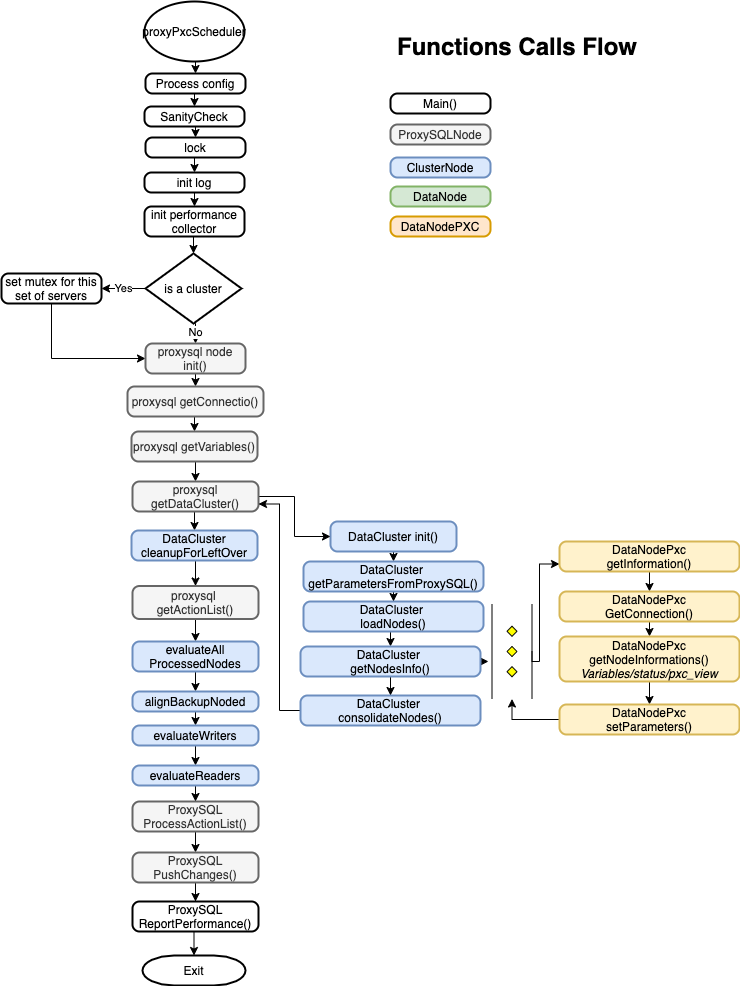
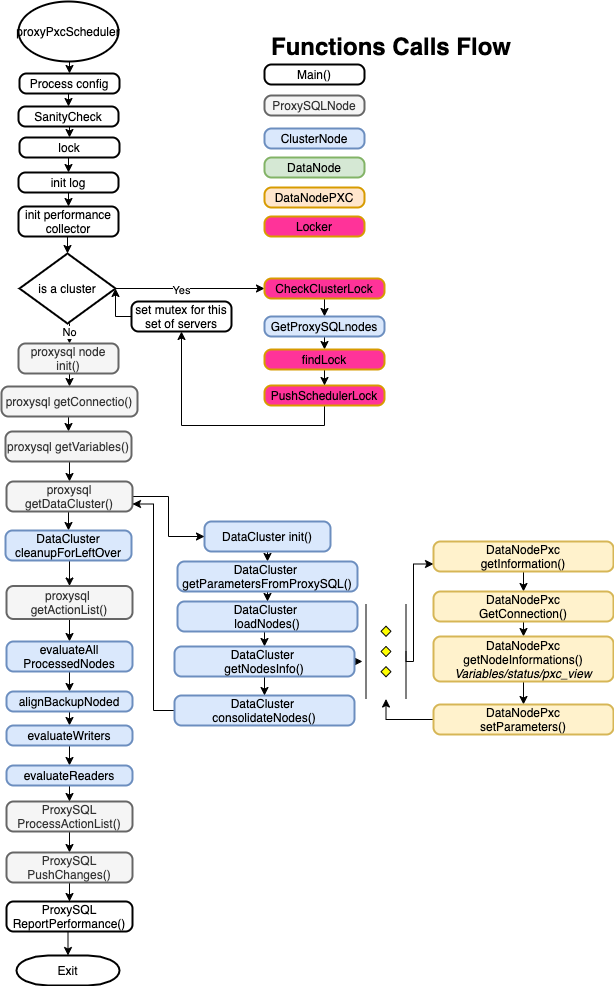
Add support for ProxySQL cluster  we will check if the node were we are has a lock or if can acquire one.  If not we will return nil to indicate program must exit given either there is already another node holding the lock  or this node is not in a good state to acquire a lock  Outside call To get a
Find lock method review all the nodes existing in the Proxysql for an active LOck
it checks only nodes that are reachable.
Checks for:
	- existing log locally
	- lock on another node
	- lock time comparing it with lockclustertimeout parameter

Interestingly ProxySQL has not clue if a ProxySQL nodes ur down. Or at least is not reported in the proxysql_server tables or any stats table
Given that we check if nodes are reachable opening a connection and closing it

diff --git a/lib/DataObjects/Locker.go b/lib/DataObjects/Locker.go
@@ -2,10 +2,11 @@ package DataObjects
 
 import (
 	"bufio"
+	"context"
 	"fmt"
 	"regexp"
 	"strings"
-
+	SQL "../Sql/Proxy"
 	Global "../Global"
 	//"github.com/go-sql-driver/mysql"
 	log "github.com/sirupsen/logrus"
@@ -15,6 +16,9 @@ import (
 )
 
 type (
+	//Locker is the Object handling the Lock at cluster level and the local process for the node demanded to run the scheduler
+	//Locker initialize also the ProxySQL node that will execute the actions
+
 	Locker struct {
 		MyServerIp          string
 		MyServerPort        int
@@ -71,14 +75,19 @@ func (locker *Locker) CheckFileLock() *ProxySQLNode{
 // we will check if the node were we are has a lock or if can acquire one.
 // If not we will return nil to indicate program must exit given either there is already another node holding the lock
 // or this node is not in a good state to acquire a lock
+// Outside call To get and check the active list of ProxySQL server we call ProxySQLCLuster.GetProxySQLnodes
+// All the DB operations are done connecting locally to the ProxySQL node running the scheduler
+
 func (locker *Locker) CheckClusterLock( ) *ProxySQLNode{
 	//TODO
 	// 1 get connection
 	// 2 get all we need from ProxySQL
 	// 3 put the lock if we can
+	Global.SetPerformanceObj("Cluster lock", true, log.InfoLevel)
 	proxySQLCluster := new(ProxySQLCluster)
 	if !locker.MyServer.IsInitialized {
 		if !locker.MyServer.Init(locker.myConfig){
+			Global.SetPerformanceObj("Cluster lock", false, log.InfoLevel)
 			return nil
 		}
 	}
@@ -91,33 +100,43 @@ func (locker *Locker) CheckClusterLock( ) *ProxySQLNode{
 		if proxySQLCluster.GetProxySQLnodes(locker.MyServer) && len(proxySQLCluster.Nodes) > 0{
 			if nodes, ok := locker.findLock(proxySQLCluster.Nodes); ok && nodes != nil {
 				if locker.PushSchedulerLock(nodes){
+					Global.SetPerformanceObj("Cluster lock", false, log.InfoLevel)
 					return locker.MyServer
 				}else{
+					Global.SetPerformanceObj("Cluster lock", false, log.InfoLevel)
 					return nil
 				}
 			}else{
 				log.Info(fmt.Sprintf("Cannot put a lock on the cluster for this scheduler %s another node hold the lock and acting",locker.MyServer.Dns))
+				Global.SetPerformanceObj("Cluster lock", false, log.InfoLevel)
 				return nil
 			}
 		}
 	}
 
-	log.Info("")
+	Global.SetPerformanceObj("Cluster lock", false, log.InfoLevel)
 	return locker.MyServer
 }
-
+/*
+Find lock method review all the nodes existing in the Proxysql for an active LOck
+it checks only nodes that are reachable.
+Checks for:
+	- existing log locally
+	- lock on another node
+	- lock time comparing it with lockclustertimeout parameter
+ */
 func (locker *Locker) findLock(nodes map[string]ProxySQLNode)  (map[string]ProxySQLNode,bool){
 	lockText := ""
-	//isMyNodeLocking :=false
-	//isLockTimeoutExceeded := false
 	winningNode :=  ""
 	lockHeader := "#LOCK_" + locker.ClusterLockId +"_"
-	log.Debug("Using lock ID: ", lockHeader)
+	lockTail := "_LOCK#"
 	lockHeaderLen := len(lockHeader)
+	log.Debug("Using lock ID: ", lockHeader)
+	//Capture the current time
 	locker.ClusterCurrentLockTime = time.Now().UnixNano()
 	log.Debug("Locker time: ", locker.ClusterCurrentLockTime)
 
-	//let us process the nodes to identify if we have a lock, where and if is expired
+	//let us process the nodes to identify if we have a lock, where, and if is expired
 	for _, node := range nodes {
 		lockText = node.Comment
 
@@ -127,15 +146,16 @@ func (locker *Locker) findLock(nodes map[string]ProxySQLNode)  (map[string]Proxy
 			node.HoldLock = true
 
 			startIdx := strings.Index(node.Comment, lockHeader)
-			endIdx := strings.Index(node.Comment, "_LOCK#")
-			lockText := strings.ReplaceAll(node.Comment[startIdx + lockHeaderLen : endIdx], "#LOCK_", "")
+			endIdx := strings.Index(node.Comment, lockTail)
+			lockText := node.Comment[startIdx + lockHeaderLen : endIdx]
 
 			log.Debug(fmt.Sprintf("Cluster Node %s has a scheduler lock ", node.Dns))
 
 			//get LOCK time and assign as winning node the node that has be the more recent one
 			node.LastLockTime = int64(Global.ToInt(lockText))
 
-			//Also if the time is not expired I will remove the lock text from comment for my node, given if the lock on another node is active I will not do a thing. But if is not I will have the node ready
+			//Also if the time is not expired I will remove the lock text from comment for my node, given if the lock on another node is active I will not do a thing.
+			//But if is not I will have the comment in the node ready
 			//trim some double spaces to be sure we have a clean string
 			node.Comment = node.Comment[:startIdx] + node.Comment[endIdx+6:]
 			space := regexp.MustCompile(`\s+`)
@@ -149,6 +169,7 @@ func (locker *Locker) findLock(nodes map[string]ProxySQLNode)  (map[string]Proxy
 				node.IsLockExpired = true
 			}
 
+			// in case of multiple locks, the node with the most recent lock time wins
 			if node.LastLockTime < locker.ClusterLastLockTime && !node.IsLockExpired {
 				locker.ClusterLastLockTime = node.LastLockTime
 				winningNode = node.Dns
@@ -156,22 +177,75 @@ func (locker *Locker) findLock(nodes map[string]ProxySQLNode)  (map[string]Proxy
 				locker.ClusterLastLockTime = node.LastLockTime
 				winningNode = node.Dns
 			}
-
-
-			// if my node is the winner I will ad it back at the end of the comment
-			//nodes[node.Dns] = node
 		}
 		nodes[node.Dns] = node
 	}
+
+	// My ProxySQL node is the winner and I can push a lock on it
+	// Else I exit without doing a bit
 	if winningNode == "" || winningNode == locker.MyServer.Dns{
+		node :=  nodes[locker.MyServer.Dns]
+		if node.Dns != "" {
+			node.Comment = node.Comment + " " + lockHeader + strconv.FormatInt(locker.ClusterCurrentLockTime, 10) + lockTail
+			nodes[locker.MyServer.Dns] = node
+			log.Debug(fmt.Sprint("Lock acquired by node %s Current time %d", locker.MyServer.Dns, locker.ClusterCurrentLockTime))
+		}
+
 		return  nodes, true
 	}
 	return nil,false
 
 }
-
+// We are ready to submit our changes. As always all is executed in a transaction
+// TODO SHOULD we remove the proxysql node that doesn't work ????
 func (locker *Locker) PushSchedulerLock(nodes map[string]ProxySQLNode) bool {
+	if len(nodes) <= 0 {
+		return true
+	}
 
+	if Global.Performance {
+		Global.SetPerformanceObj("Execute SQL changes - ProxySQL cluster LOCK ("+ locker.ClusterLockId +")" , true,log.DebugLevel)
+	}
+	//We will execute all the commands inside a transaction if any error we will roll back all
+	ctx := context.Background()
+	tx, err := locker.MyServer.Connection.BeginTx(ctx, nil)
+	if err != nil {
+		log.Fatal("Error in creating transaction to push changes ", err)
+	}
+	for key, node := range nodes {
+		if node.Dns != "" {
+			sqlAction := strings.ReplaceAll(SQL.Dml_update_comment_proxy_servers,"?", node.Comment) + " where hostname='" + node.Ip + "' and port= " + strconv.Itoa(node.Port)
+			_, err = tx.ExecContext(ctx, sqlAction)
+			if err != nil {
+				tx.Rollback()
+				log.Fatal("Error executing SQL: ", sqlAction, " for node: ", key, " Rollback and exit")
+				log.Error(err)
+				return false
+			}
+		}
+	}
+	err = tx.Commit()
+	if err != nil {
+		log.Fatal("Error IN COMMIT exit")
+		return false
+
+	} else {
+		_, err = locker.MyServer.Connection.Exec("LOAD proxysql servers to RUN ")
+		if err != nil {
+			log.Fatal("Cannot load new proxysql configuration to RUN ")
+			return false
+		} else {
+			_, err = locker.MyServer.Connection.Exec("save proxysql servers to disk ")
+			if err != nil {
+				log.Fatal("Cannot save new proxysql configuration to DISK ")
+				return false
+			}
+		}
+
+	}
+	if Global.Performance {
+		Global.SetPerformanceObj("Execute SQL changes - ProxySQL cluster LOCK ("+ locker.ClusterLockId +")" , false,log.DebugLevel)
+	}
 
 	return true
 }

diff --git a/lib/DataObjects/proxySQLObjects.go b/lib/DataObjects/proxySQLObjects.go
@@ -24,6 +24,9 @@ type ProxySQLCluster struct {
 	Password string
 }
 
+// This method in ProxySQL Cluster Object is responsible for getting the list of ACTIVE ProxySQL servers.
+// Interestingly ProxySQL has not clue if a ProxySQL nodes ur down. Or at least is not reported in the proxysql_server tables or any stats table
+// Given that we check if nodes are reachable opening a connection and closing it
 func (cluster ProxySQLCluster) GetProxySQLnodes(myNode *ProxySQLNode) bool {
 	//nodes := make(map[int]*ProxySQLNode)
 
@@ -48,8 +51,11 @@ func (cluster ProxySQLCluster) GetProxySQLnodes(myNode *ProxySQLNode) bool {
 		newNode.User = cluster.User
 		newNode.Password = cluster.Password
 
-		//TODO given Proxysql is NOT removing a non healthy node from proxySQL_cluster I must add a step here to check and eventually remove failing ProxySQL nodes
+		// Given Proxysql is NOT removing a non healthy node from proxySQL_cluster I must add a step here to check and eventually remove failing ProxySQL nodes
 		if newNode.GetConnection(){
+			if newNode.Dns != myNode.Dns{
+				newNode.CloseConnection()
+			}
 			cluster.Nodes[newNode.Dns] = *newNode
 		}else{
 			log.Error(fmt.Sprintf("ProxySQL Node %s is down or not reachable PLEASE REMOVE IT from the proxysql_servers table OR fix the issue", newNode.Dns))
@@ -509,7 +515,7 @@ func (node *ProxySQLNode) executeSQLChanges(SQLActionString []string) bool {
 			log.Fatal("Cannot load new mysql configuration to RUN ")
 			return false
 		} else {
-			_, err = node.Connection.Exec("LOAD mysql servers to RUN ")
+			_, err = node.Connection.Exec("SAVE mysql servers to DISK ")
 			if err != nil {
 				log.Fatal("Cannot save new mysql configuration to DISK ")
 				return false

diff --git a/pxcScheduler.go b/pxcScheduler.go
@@ -95,24 +95,13 @@ func main() {
 	config.SanityCheck()
 	//Manage config and parameters from conf file [END]
 
-
-	//Initialize the locker
-	if !locker.Init(&config){
-		log.Error("Cannot initialize Locker")
-		os.Exit(1)
-	}
-
-	//if !config.Global.Development {
-	//	if !locker.SetLockFile() {
-	//		fmt.Print("Cannot create a lock, exit")
-	//		os.Exit(1)
-	//	}
-	//} else {
-	//	devLoop = 2
-	//	devLoopWait = config.Global.DevInterval
-	//}
-
 	for i := 0; i <= devLoop; {
+		//Initialize the locker
+		if !locker.Init(&config){
+			log.Error("Cannot initialize Locker")
+			os.Exit(1)
+		}
+
 		//In case we have development mode active then loop here
 		//TODO devlop will become daemon mode
 		if config.Global.Development {

diff --git a/lib/Sql/Proxy/sqlobjects.go b/lib/Sql/Proxy/sqlobjects.go
@@ -16,4 +16,7 @@ const(
     Dml_show_variables="SHOW GLOBAL VARIABLES"
 
     Dml_select_proxy_servers = "select weight,hostname,port,comment from runtime_proxysql_servers order by weight desc"
+
+	Dml_delete_proxy_servers = "delete from proxysql_servers where hostname = '?1' and port = ?2 "
+	Dml_update_comment_proxy_servers = "update proxysql_servers set comment ='?'"
 )
